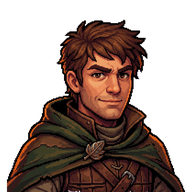
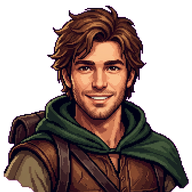
Letzte Grafiken: Abenteurer-Porträt, Händler-Symbol, Kartenbild Mensch
Claude-Session: https://claude.ai/code/session_01RTvd2LwEyaHrr3BB8V3DK4

diff --git a/js/ui.js b/js/ui.js
@@ -944,7 +944,7 @@ const ST_ICON = {
 };
 const starSvg = on => `<img class="star${on ? ' on' : ''}" src="icons/stern-${on ? 'voll' : 'leer'}.png" alt="" aria-hidden="true">`;
 // Medaillen der Stationen: Musely-Symbole, solange eins fehlt das gezeichnete
-const ST_IMG = {puzzle: 'icons/st-puzzle.png', duel: 'icons/st-duel.png', event: 'icons/st-event.png', boss: 'icons/st-boss.png', lock: 'icons/st-lock.png'};
+const ST_IMG = {puzzle: 'icons/st-puzzle.png', duel: 'icons/st-duel.png', event: 'icons/st-event.png', shop: 'icons/st-shop.png', boss: 'icons/st-boss.png', lock: 'icons/st-lock.png'};
 const medalIcon = t => ST_IMG[t] ? `<img class="mi" src="${ST_IMG[t]}" alt="">` : `<svg viewBox="0 0 24 24">${ST_ICON[t] || LOCK_PATH}</svg>`;
 const coinImg = '<img src="icons/muenze-voll.png" alt="">';
 function renderStory() {

diff --git a/sw.js b/sw.js
@@ -1,5 +1,5 @@
 /* Service Worker: macht die App offline spielbar. Wird von build_mobile.py erzeugt. */
-const CACHE = 'loota-3b1befdbdd';
+const CACHE = 'loota-2baf44edc6';
 const FILES = [
 "./",
 "index.html",
@@ -98,6 +98,7 @@ const FILES = [
 "art/monster-zombie-hausmeister.webp",
 "art/rasse-elf.webp",
 "art/rasse-halbling.webp",
+"art/rasse-mensch.webp",
 "art/rasse-zwerg.webp",
 "art/ruecken-schatz.webp",
 "art/ruecken-tuer.webp",
@@ -149,6 +150,7 @@ const FILES = [
 "icons/st-event.png",
 "icons/st-lock.png",
 "icons/st-puzzle.png",
+"icons/st-shop.png",
 "icons/stern-leer.png",
 "icons/stern-voll.png",
 "icons/wert-hand.png",

diff --git a/js/engine.js b/js/engine.js
@@ -185,6 +185,7 @@ const ART = {
   "Elf":"art/rasse-elf.webp",
   "Halbling":"art/rasse-halbling.webp",
   "Zwerg":"art/rasse-zwerg.webp",
+  "Mensch":"art/rasse-mensch.webp",
   "Glücksamulett":"art/sonder-gluecksamulett.webp",
   "Ungebetener Gast":"art/sonder-ungebetener-gast.webp",
   "Pizza für alle bestellt":"art/stufe-pizza-fuer-alle-bestellt.webp",
